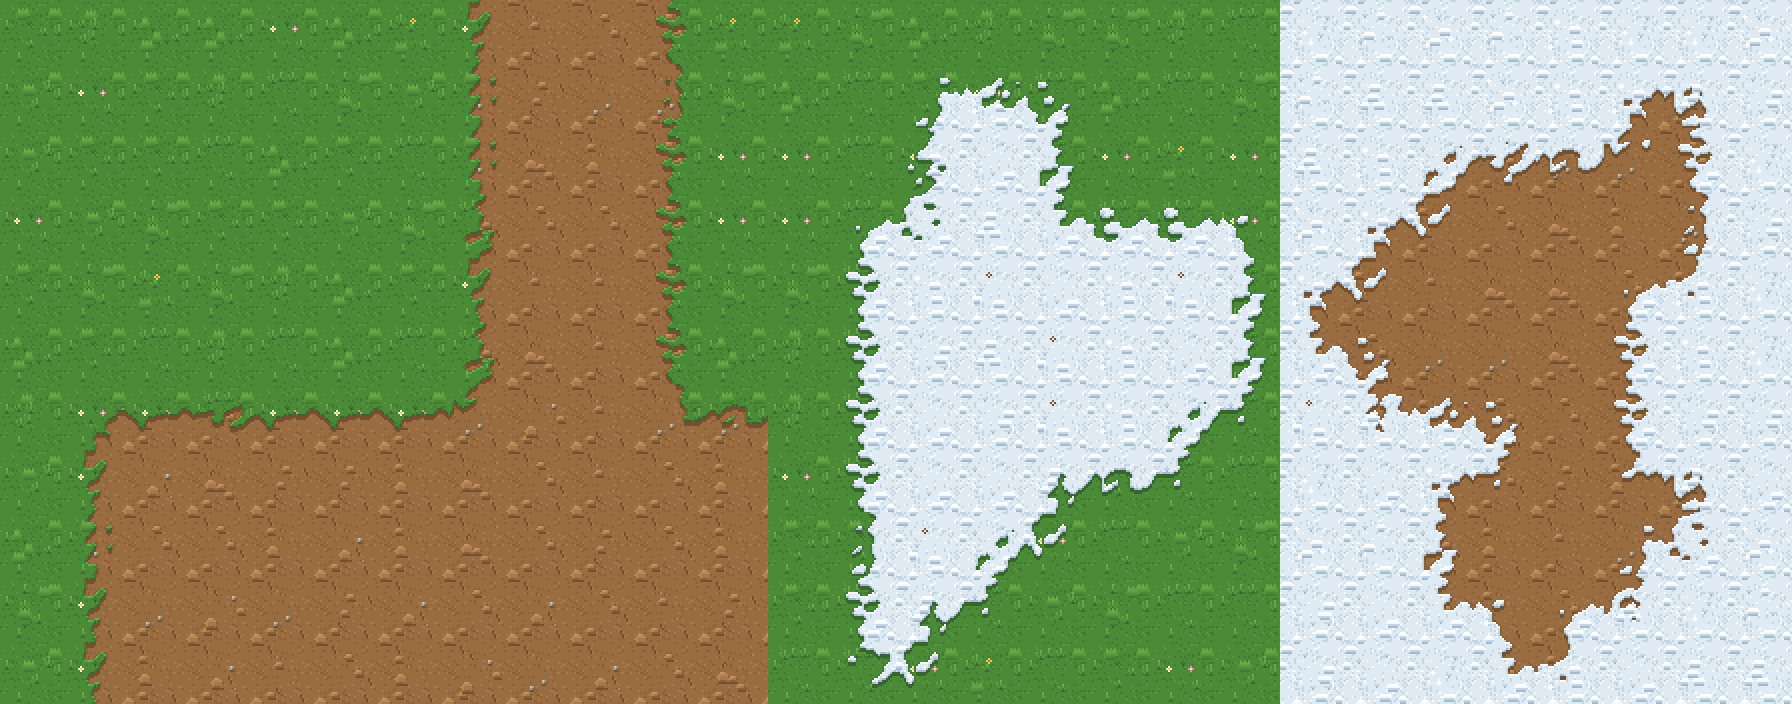
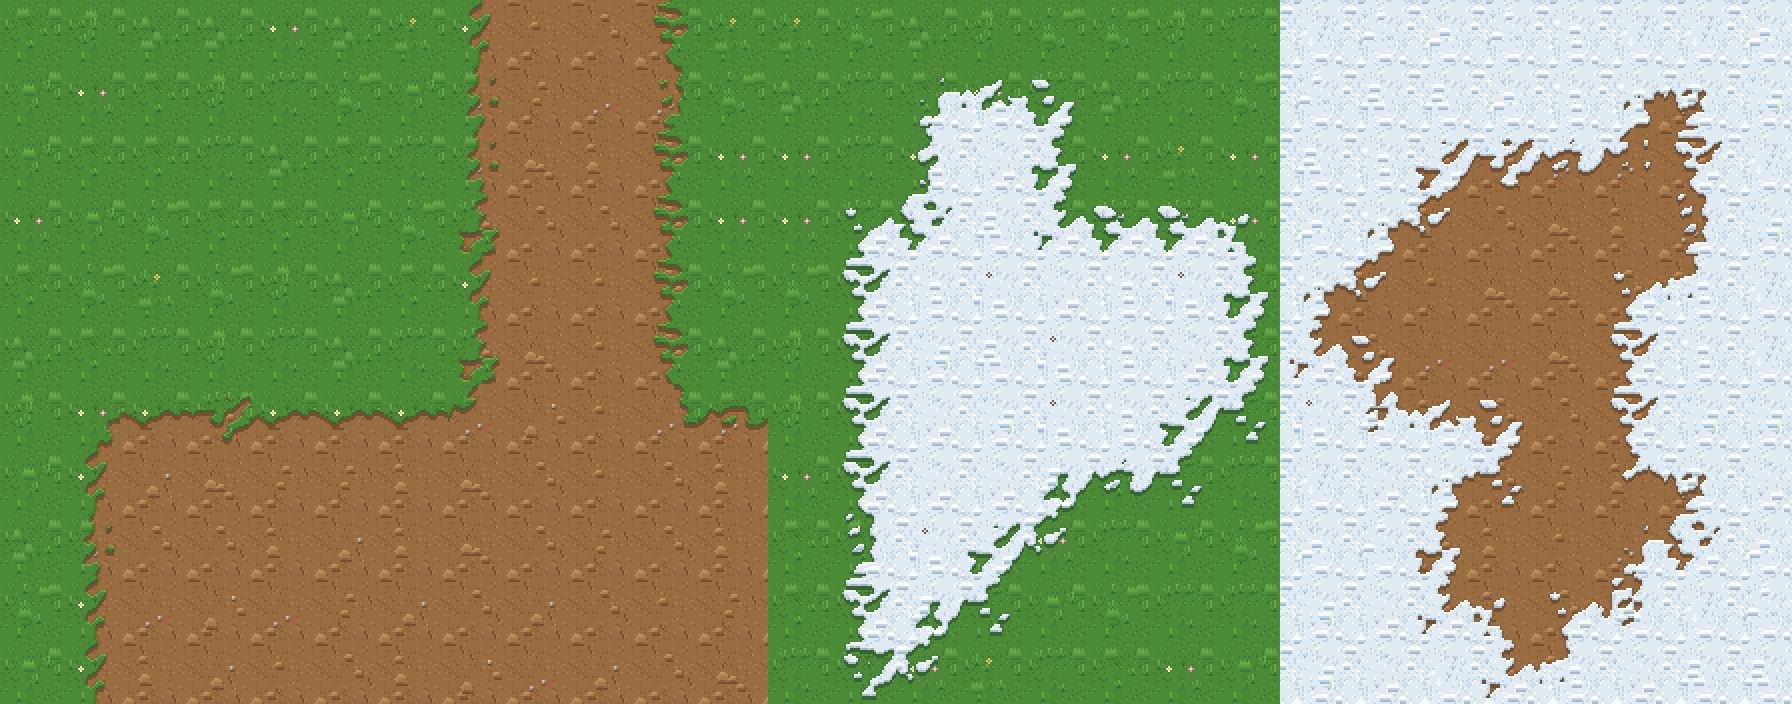
Ground tiles: shared edge noise so transitions are not straight near tile borders
Claude-Session: https://claude.ai/code/session_01UfpJh2yGrDMaNfv5mQuco1

diff --git a/tools/pixel-art/ground.py b/tools/pixel-art/ground.py
@@ -249,7 +249,7 @@ def wang_tile(lower, upper, nw, ne, sw, se, vi=0):
     def is_lower(x, y):
         u, v = (x + 0.5) / T, (y + 0.5) / T          # doğrusal: gürültü kenarı kıvırsın, sivri kanca çıkmasın
         m = (nw * (1 - u) * (1 - v) + ne * u * (1 - v) + sw * (1 - u) * v + se * u * v)
-        return m + amp * win(u, v) * pnoise(x, y, 77 + vi * 13, ((1, 0.8), (2, 1.0), (3, 0.9), (4, 0.7))) > 0.5
+        return m + 0.4 * amp * pnoise(x, y, 77, ((1, 0.8), (2, 1.0), (3, 0.9), (4, 0.7))) + amp * win(u, v) * pnoise(x, y, 77 + vi * 13, ((1, 0.8), (2, 1.0), (3, 0.9), (4, 0.7))) > 0.5
     mask = [[is_lower(x, y) for x in range(T)] for y in range(T)]
     def M(x, y):
         return mask[min(T - 1, max(0, y))][min(T - 1, max(0, x))]
